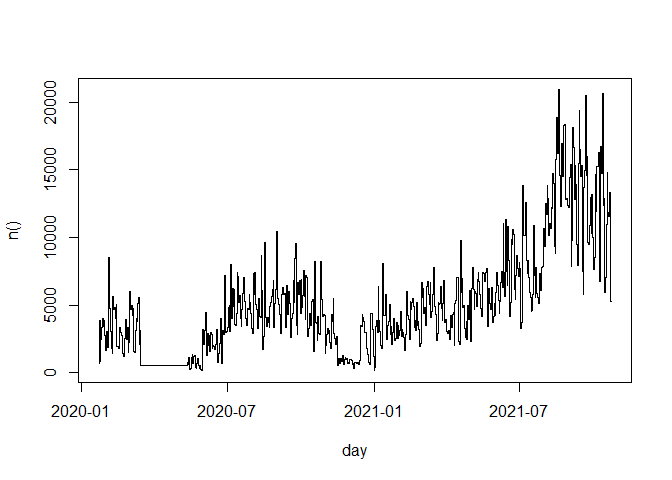
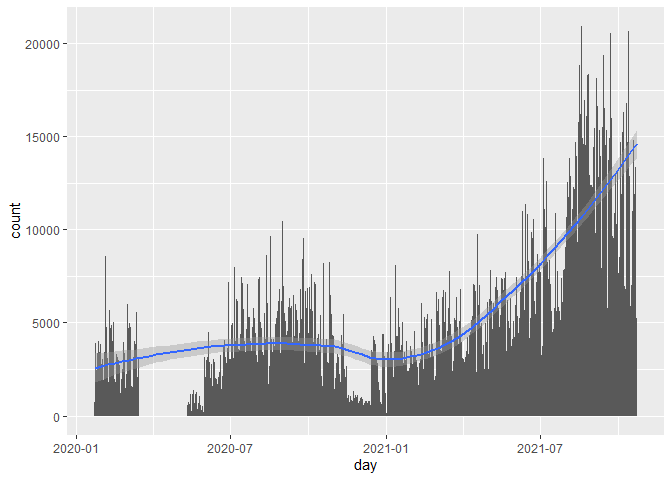
distribution plots

diff --git a/slo_train_delay.md b/slo_train_delay.md
@@ -7,7 +7,6 @@ Slovenske železnice train delay
   - [Basic statisctics](#basic-statisctics)
 - [TODO](#todo)
   - [Distribution of Delays](#distribution-of-delays)
-  - [Delay by Train Type](#delay-by-train-type)
   - [Trend Analysis](#trend-analysis)
   - [Heatmap of Delays by Hour and Day of
     Week](#heatmap-of-delays-by-hour-and-day-of-week)
@@ -151,36 +150,81 @@ filtered$delay %>% summary()
 ### Distribution of Delays
 
 ``` r
-delays %>% group_by(day) %>% summarise(n()) %>% plot(type="S")
+time_delays <- delays %>% 
+  group_by(day) %>%
+  summarise(count=n())
+
+time_delays %>% ggplot(aes(x=day,y=count)) +
+  geom_col()+
+  geom_smooth(formula = y ~ x) 
 ```
+
+    ## `geom_smooth()` using method = 'loess'
 
 ![](slo_train_delay_files/figure-gfm/unnamed-chunk-7-1.png)<!-- -->
 
 ``` r
-delays %>% group_by(month=month(timestamp)) %>% summarise(n()) %>% plot()
+month_delay <- delays %>%
+  group_by(month=month(timestamp)) %>%
+  summarise(count=n())
+
+month_delay %>% ggplot(aes(x=month,y=count)) +
+  geom_point()
 ```
 
-![](slo_train_delay_files/figure-gfm/unnamed-chunk-7-2.png)<!-- -->
+![](slo_train_delay_files/figure-gfm/unnamed-chunk-8-1.png)<!-- -->
 
 ``` r
-delays %>% group_by(day=day(timestamp)) %>% summarise(n()) %>% plot()
+day_delay <- delays %>%
+  group_by(day=day(timestamp)) %>%
+  summarise(count = n())
+
+mean_y <- mean(day_delay$count)
+sd_y <- sd(day_delay$count)
+
+
+day_delay %>% ggplot(aes(x=day,y=count)) +
+  geom_point() + 
+  geom_hline(yintercept = mean_y, color = "red", linetype = "dashed") +
+  annotate("text", x = min(day_delay$day), y = mean_y-1500, 
+           label = paste("Mean Y =", round(mean_y, 2)), color = "red", hjust = -0.5) +
+  geom_hline(yintercept = mean_y + sd_y, color = "red") +
+  geom_hline(yintercept = mean_y - sd_y, color = "red")
 ```
 
-![](slo_train_delay_files/figure-gfm/unnamed-chunk-7-3.png)<!-- -->
+![](slo_train_delay_files/figure-gfm/unnamed-chunk-9-1.png)<!-- -->
 
 ``` r
-delays %>% group_by(wday=wday(timestamp,label=T, week_start = 1)) %>% summarise(n()) %>% plot()
+wday_delay <- delays %>% 
+  group_by(wday=wday(timestamp,label=T, week_start = 1)) %>%
+  summarise(count=n())
+
+wday_delay %>% ggplot(aes(x=wday,y=count)) +
+  geom_bar(stat = "identity", fill = "skyblue")
 ```
 
-![](slo_train_delay_files/figure-gfm/unnamed-chunk-7-4.png)<!-- -->
+![](slo_train_delay_files/figure-gfm/unnamed-chunk-10-1.png)<!-- -->
 
 ``` r
-delays %>% group_by(hour=hour(timestamp)) %>% summarise(n()) %>% plot()
+hour_delays <- delays %>% 
+  group_by(hour=hour(timestamp)) %>% 
+  summarise(count=n())
+
+mean_y <- mean(hour_delays$count)
+mean_x <- mean(hour_delays$hour)
+sd_x <- sd(hour_delays$hour)
+
+hour_delays %>% ggplot(aes(x=hour,y=count)) +
+  geom_point() + 
+  geom_hline(yintercept = mean_y, color = "red", linetype = "dashed") +
+  annotate("text", x = min(hour_delays$hour), y = mean_y-8000, 
+           label = paste("Mean Y =", round(mean_y, 2)), color = "red", hjust = -0.5) +
+  geom_vline(xintercept = mean_x - sd_x, color = "blue") +
+  annotate("text", x = mean_x, y = 0, label = paste("Standard deviation"), color = "blue") +
+  geom_vline(xintercept = mean_x + sd_x, color = "blue")
 ```
 
-![](slo_train_delay_files/figure-gfm/unnamed-chunk-7-5.png)<!-- -->
-
-### Delay by Train Type
+![](slo_train_delay_files/figure-gfm/unnamed-chunk-11-1.png)<!-- -->
 
 ### Trend Analysis
 
